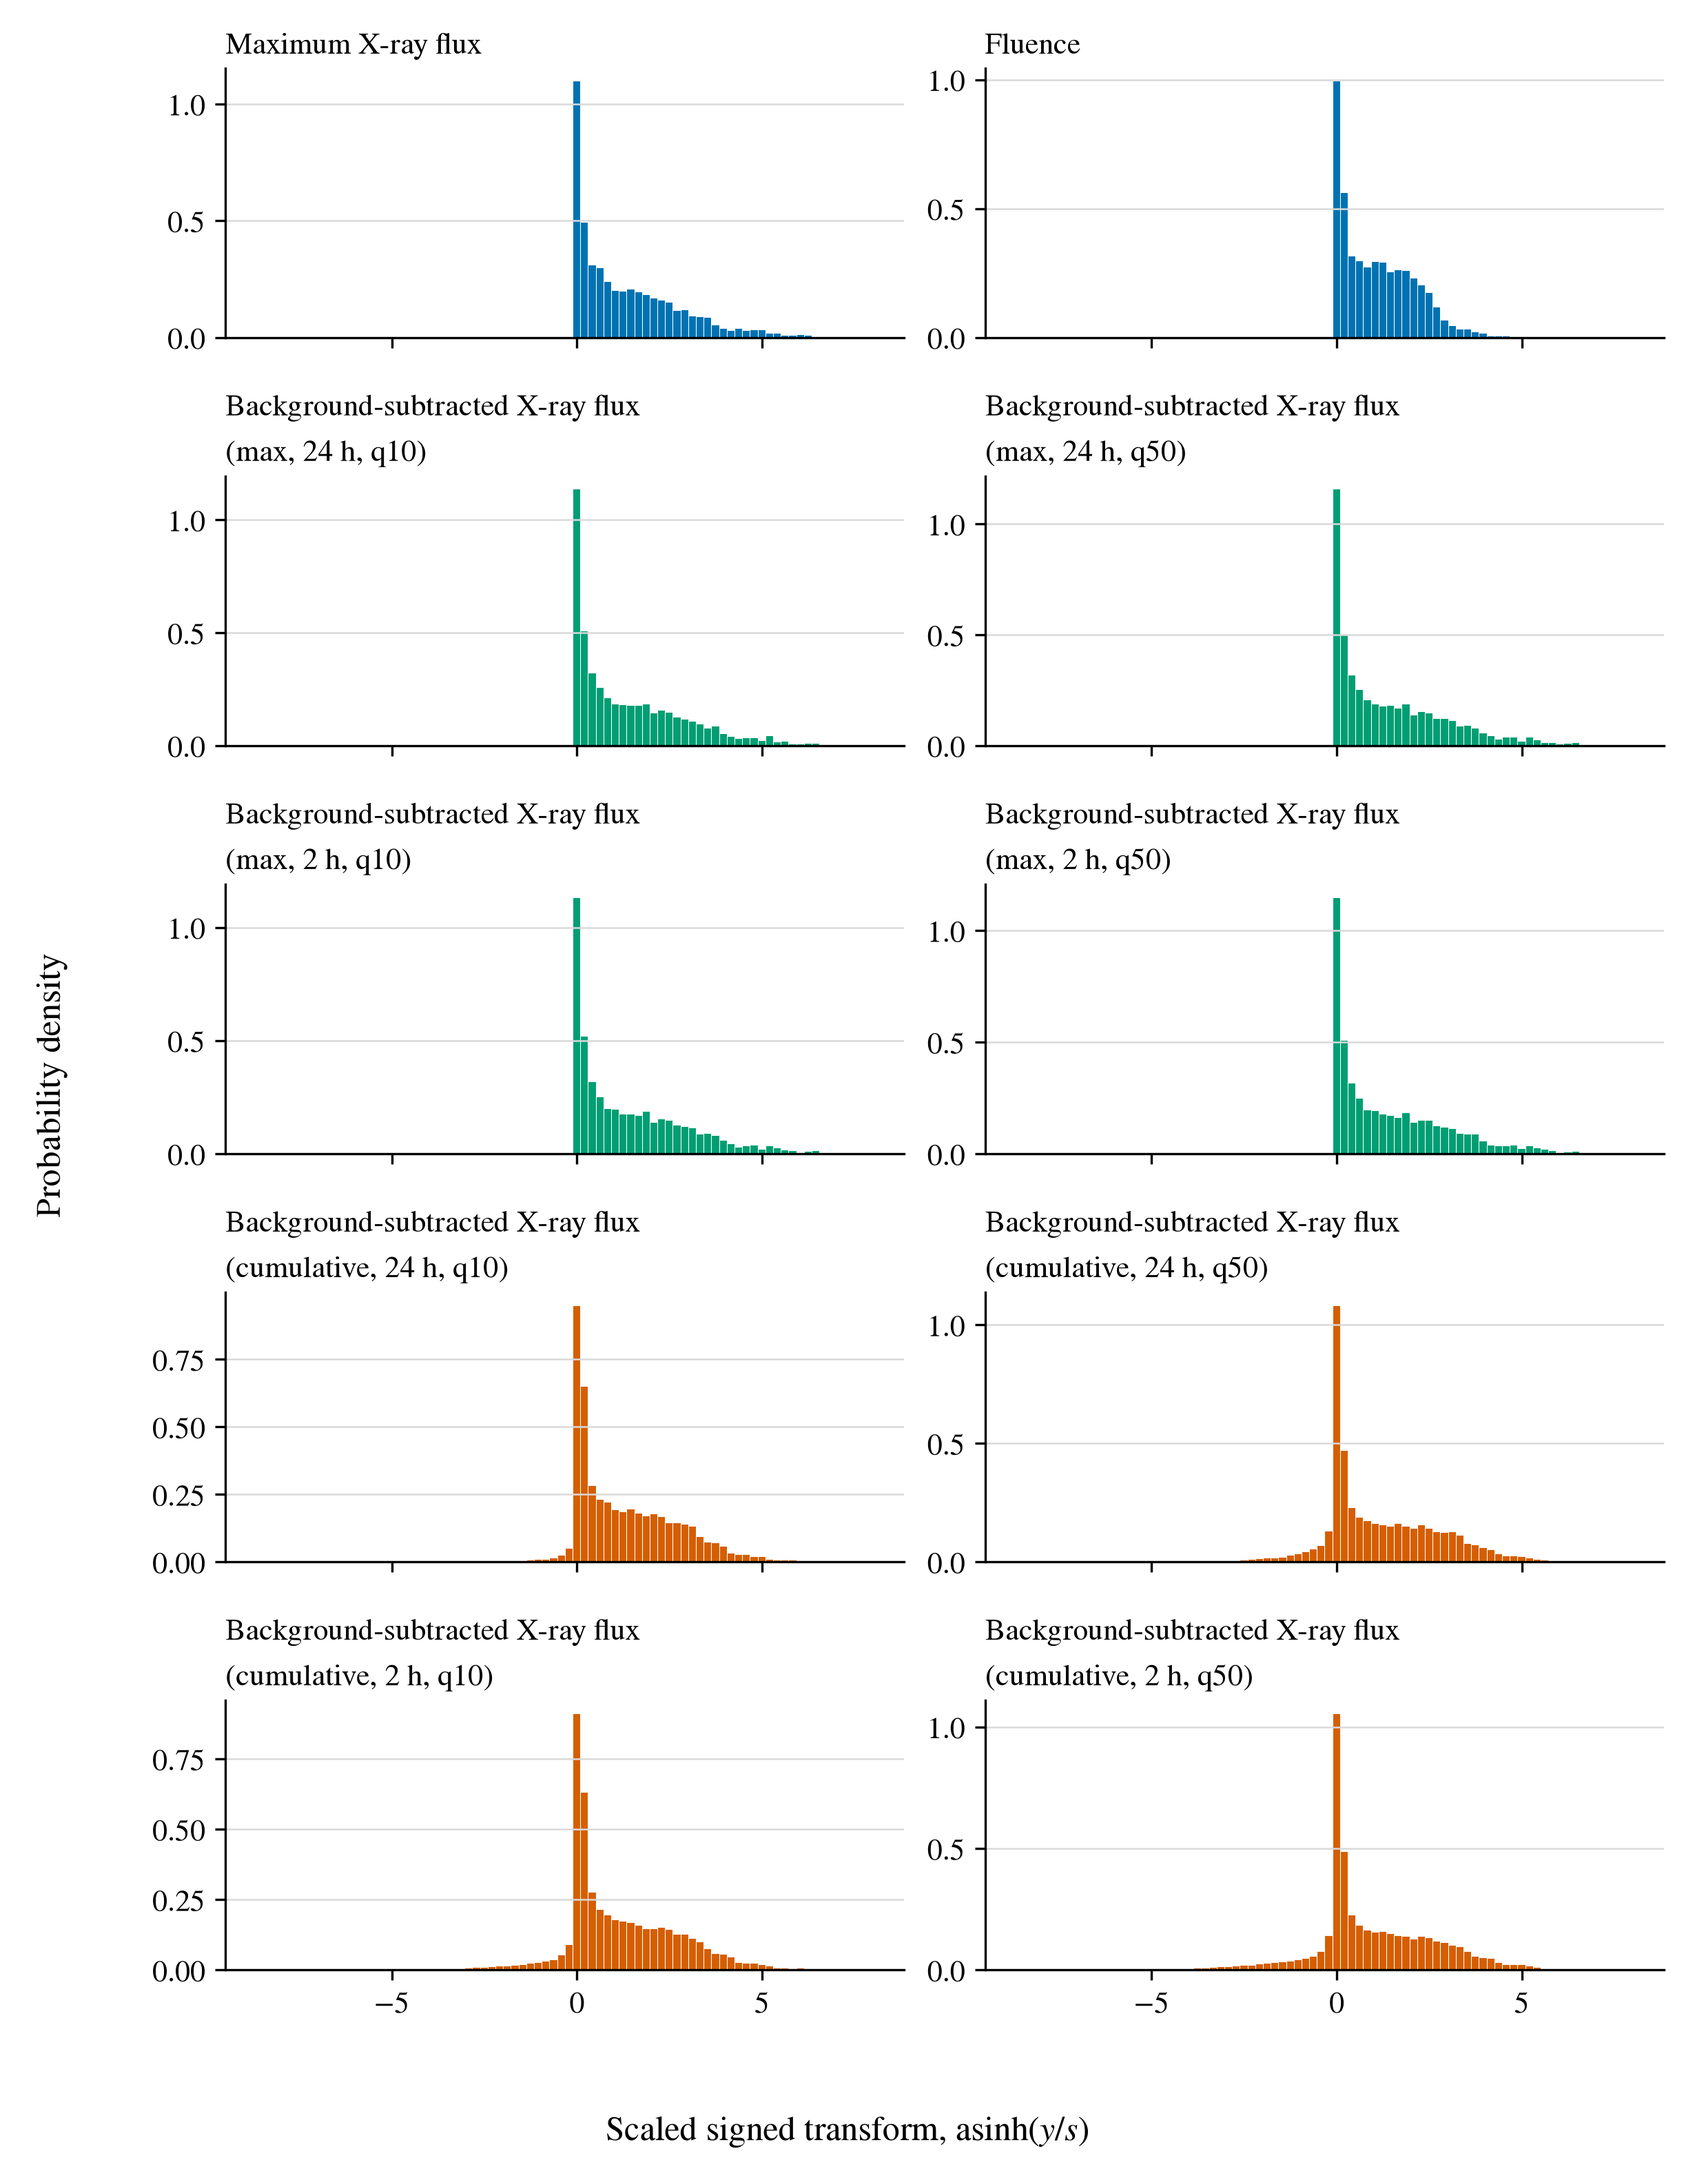
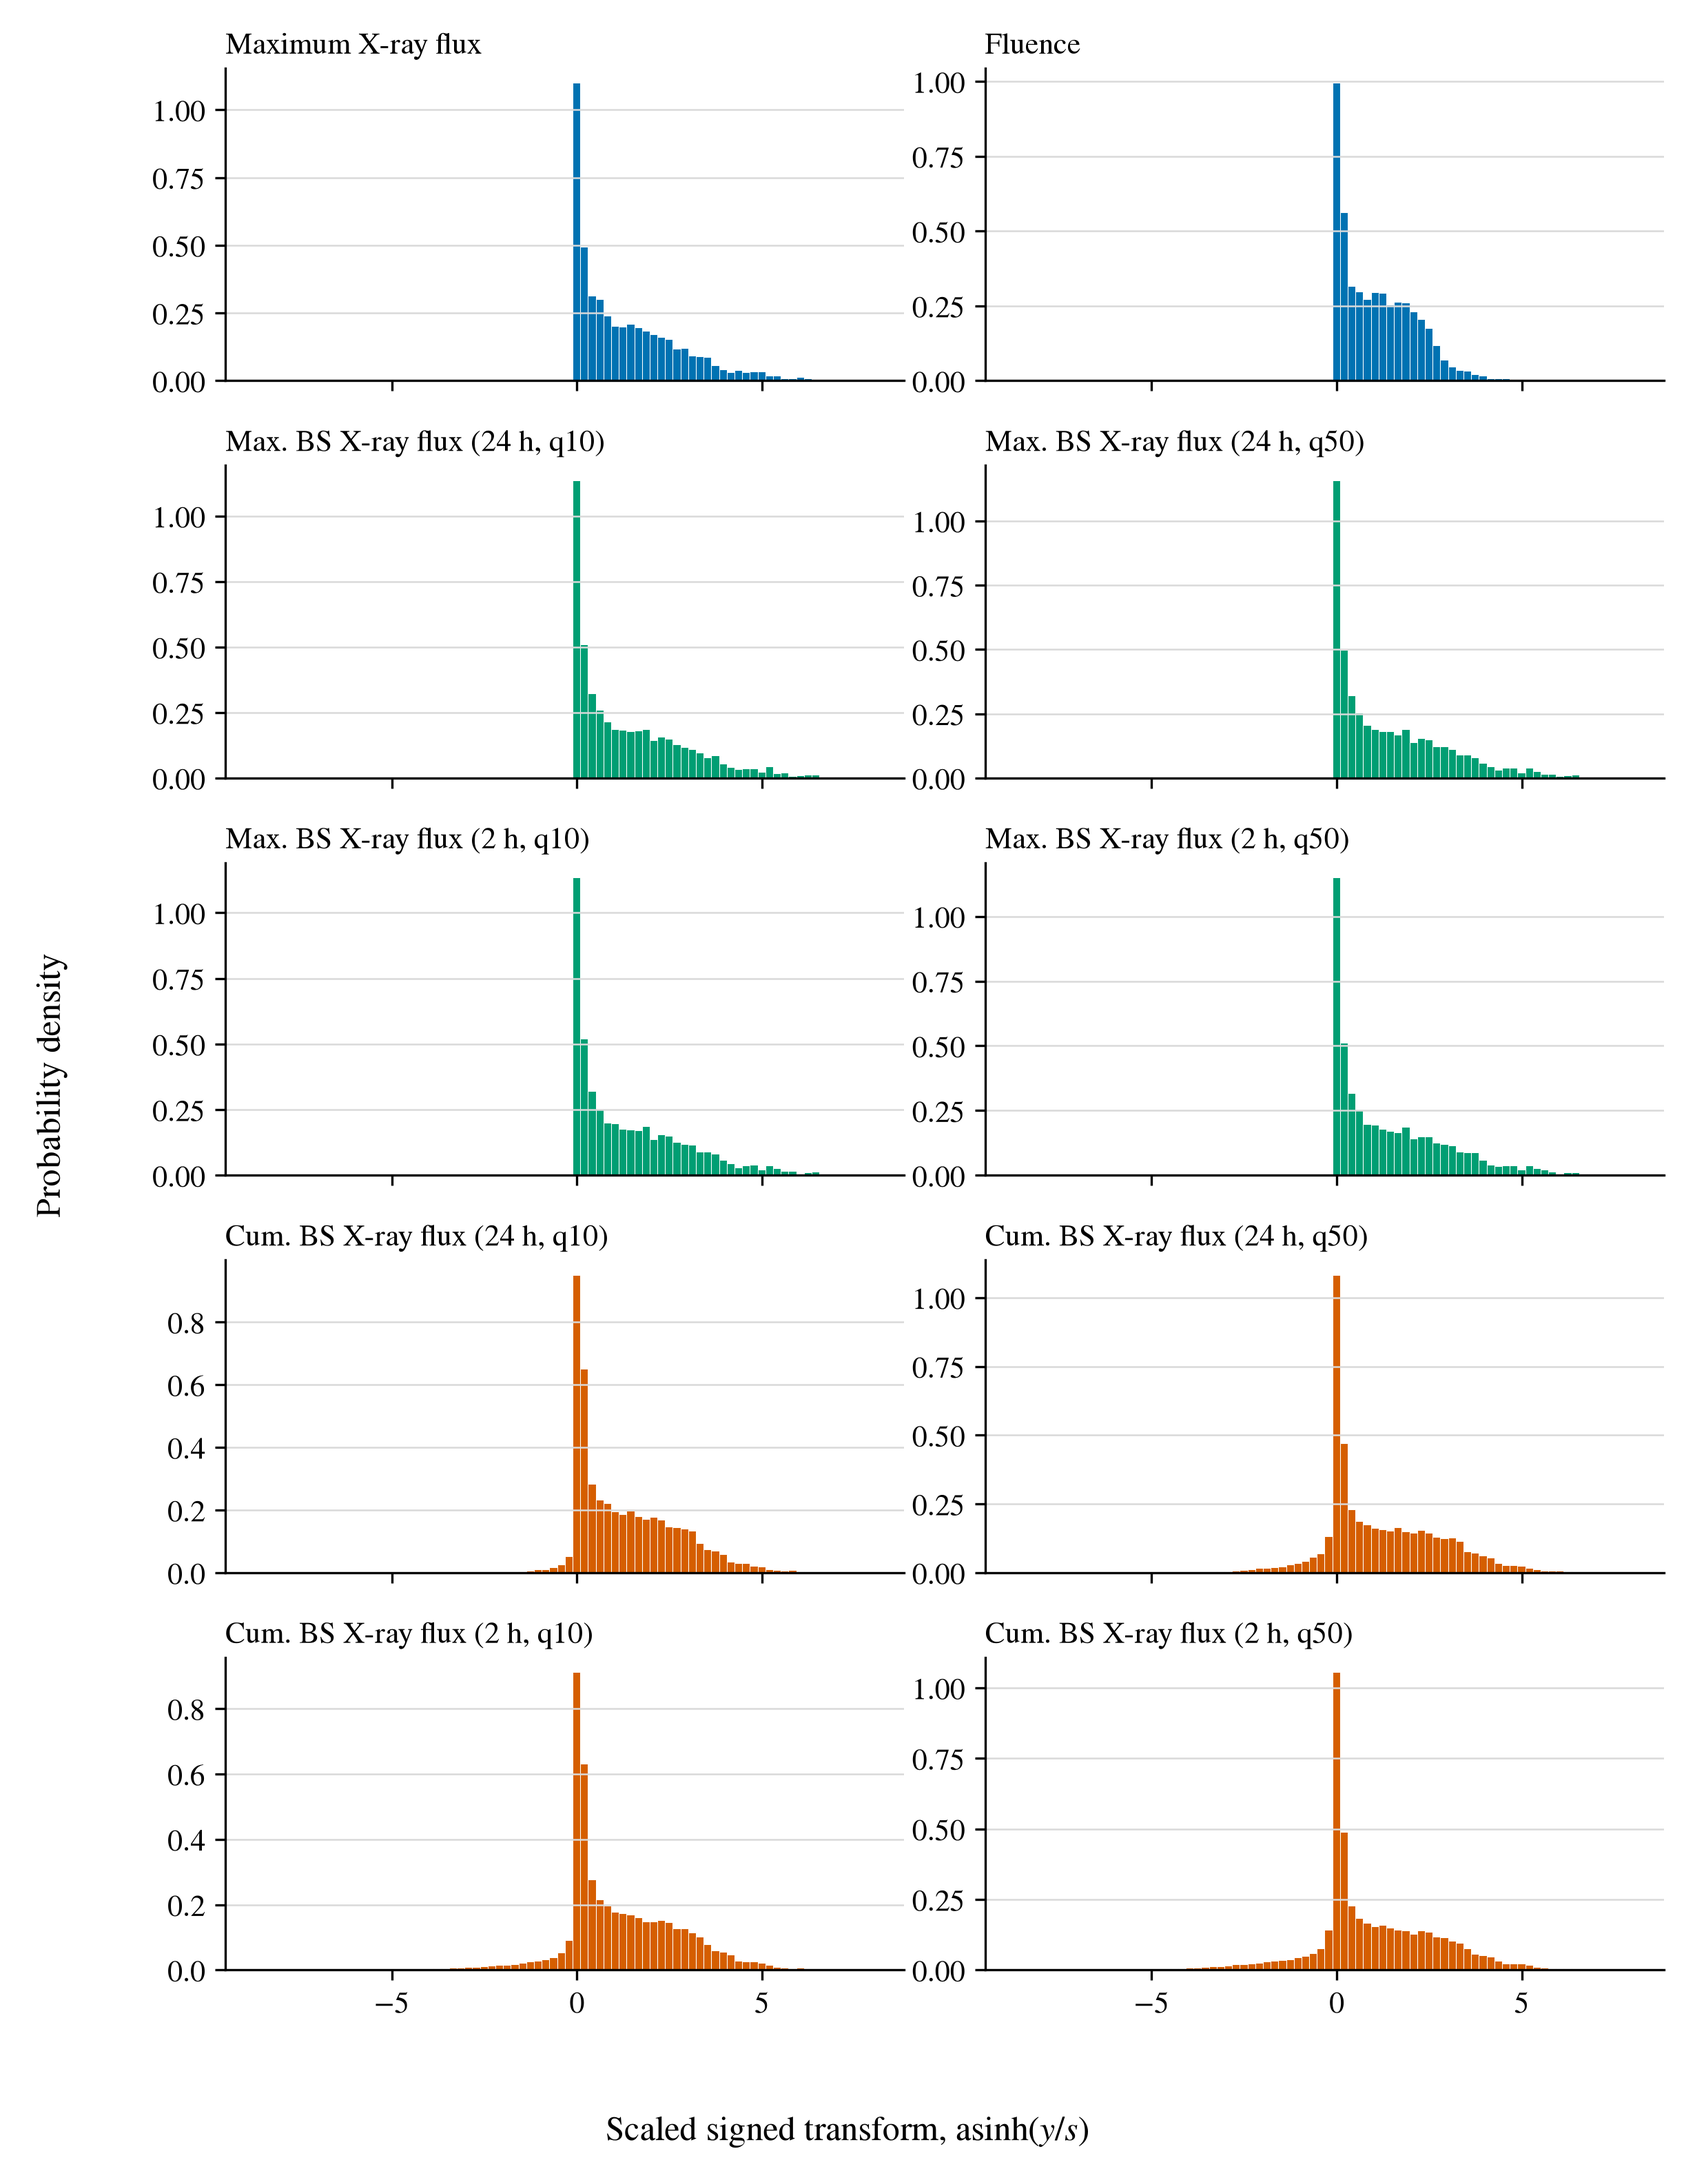
style(analysis): abbreviate histogram labels
Use one-line Max. and Cum. BS X-ray flux labels while retaining time windows and quantiles for each target.

diff --git a/scripts/analysis/plot_v1_target_distributions.py b/scripts/analysis/plot_v1_target_distributions.py
@@ -53,14 +53,14 @@ TARGET_LABELS = {
     "total_background_deviation_2h_q50": "Total background deviation · 2 h · q50",
 }
 HISTOGRAM_TARGET_LABELS = {
-    "max_background_deviation_24h_q10": "Background-subtracted X-ray flux\n(max, 24 h, q10)",
-    "max_background_deviation_24h_q50": "Background-subtracted X-ray flux\n(max, 24 h, q50)",
-    "max_background_deviation_2h_q10": "Background-subtracted X-ray flux\n(max, 2 h, q10)",
-    "max_background_deviation_2h_q50": "Background-subtracted X-ray flux\n(max, 2 h, q50)",
-    "total_background_deviation_24h_q10": "Background-subtracted X-ray flux\n(cumulative, 24 h, q10)",
-    "total_background_deviation_24h_q50": "Background-subtracted X-ray flux\n(cumulative, 24 h, q50)",
-    "total_background_deviation_2h_q10": "Background-subtracted X-ray flux\n(cumulative, 2 h, q10)",
-    "total_background_deviation_2h_q50": "Background-subtracted X-ray flux\n(cumulative, 2 h, q50)",
+    "max_background_deviation_24h_q10": "Max. BS X-ray flux (24 h, q10)",
+    "max_background_deviation_24h_q50": "Max. BS X-ray flux (24 h, q50)",
+    "max_background_deviation_2h_q10": "Max. BS X-ray flux (2 h, q10)",
+    "max_background_deviation_2h_q50": "Max. BS X-ray flux (2 h, q50)",
+    "total_background_deviation_24h_q10": "Cum. BS X-ray flux (24 h, q10)",
+    "total_background_deviation_24h_q50": "Cum. BS X-ray flux (24 h, q50)",
+    "total_background_deviation_2h_q10": "Cum. BS X-ray flux (2 h, q10)",
+    "total_background_deviation_2h_q50": "Cum. BS X-ray flux (2 h, q50)",
 }
 TARGET_UNITS = {
     "max_xflux": "W m^-2",
